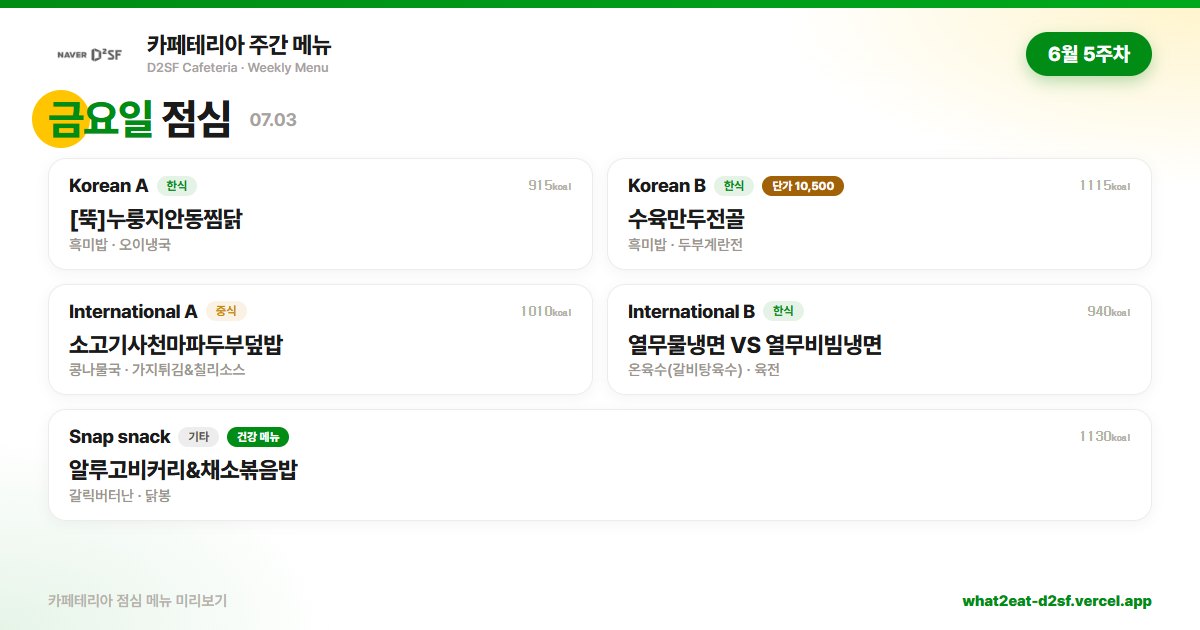
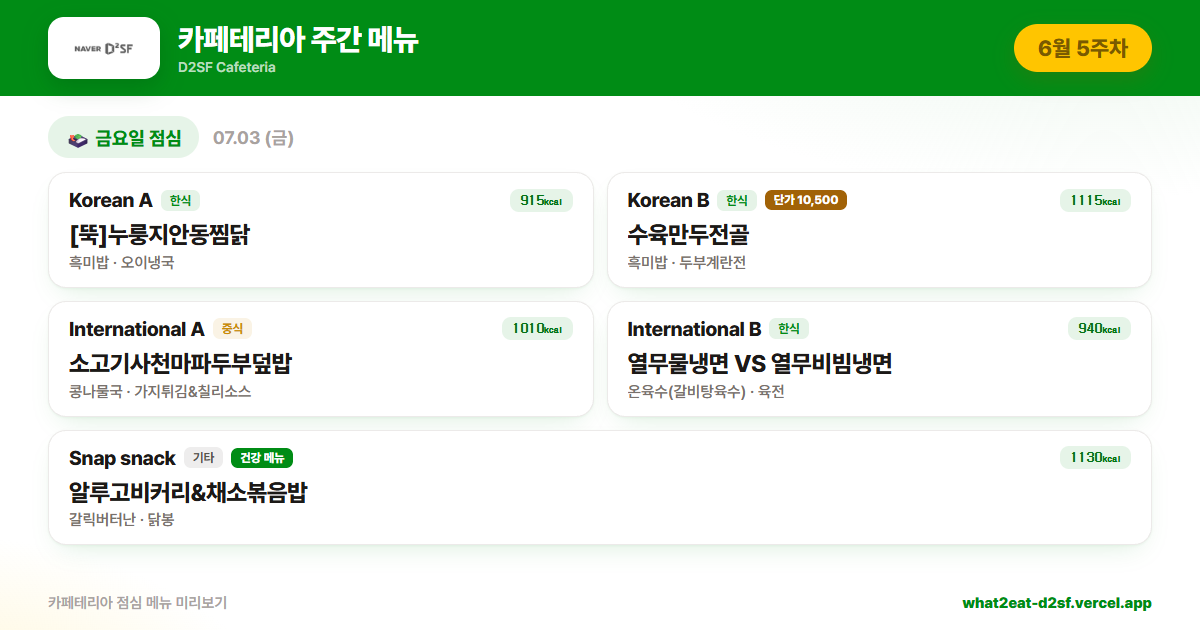
OG 프리뷰 디자인 롤백(subway 적용 이전 2단 디자인) · 명칭(카페테리아 주간 메뉴)은 유지
- generate-og.mjs: subway 리디자인 이전 버전으로 복원, 카드 명칭만 카페테리아로 유지
- og-*.png 5장 재생성
- og:image 캐시 토큰 r=2 → r=3 (이미지 교체 반영)

diff --git a/index.html b/index.html
@@ -17,13 +17,13 @@
     <meta property="og:url" content="https://what2eat-d2sf.vercel.app/" />
     <meta property="og:title" content="D2SF 카페테리아 — 오늘의 점심 메뉴" />
     <meta property="og:description" content="D2SF 카페테리아 주간 메뉴 — 조식·중식·석식·테이크아웃, 메뉴 검색, 칼로리 분석" />
-    <meta property="og:image" content="https://what2eat-d2sf.vercel.app/api/og?r=2" />
+    <meta property="og:image" content="https://what2eat-d2sf.vercel.app/api/og?r=3" />
     <meta property="og:image:width" content="1200" />
     <meta property="og:image:height" content="630" />
     <meta name="twitter:card" content="summary_large_image" />
     <meta name="twitter:title" content="D2SF 카페테리아 — 오늘의 점심 메뉴" />
     <meta name="twitter:description" content="D2SF 카페테리아 주간 메뉴 — 조식·중식·석식·테이크아웃, 메뉴 검색, 칼로리 분석" />
-    <meta name="twitter:image" content="https://what2eat-d2sf.vercel.app/api/og?r=2" />
+    <meta name="twitter:image" content="https://what2eat-d2sf.vercel.app/api/og?r=3" />
     <!-- /OG -->
   </head>
   <body>
